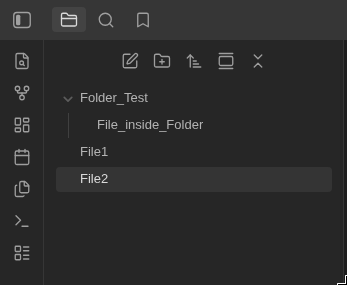
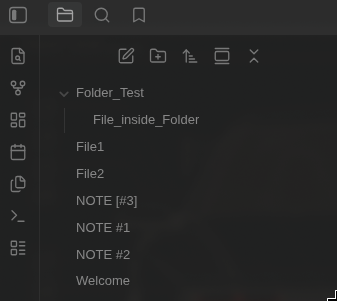
fix(sources/community/obsidian): minor fixes

diff --git a/sources/community/obsidian/README.md b/sources/community/obsidian/README.md
@@ -76,13 +76,13 @@ by `vault_files`, `search`, or `list_directory`:
 
 ```sql
 SELECT filename, encoded_filename
-FROM obsidian.search(query => 'Note #1')
+FROM obsidian.search(query => 'NOTE #1')
 LIMIT 10
 ```
 
 ```sql
 SELECT content
-FROM obsidian.read_note(path => 'Note%20%231.md')
+FROM obsidian.read_note(path => 'NOTE%20%231.md')
 ```
 
 ### Read note metadata
@@ -141,10 +141,13 @@ SELECT name, encoded_name FROM obsidian.vault_files
 
 | name | encoded_name |
 |------|--------------|
-| Folder_Test/ | Folder_Test/ |
-| Welcome.md | Welcome.md |
 | File1.md | File1.md |
 | File2.md | File2.md |
+| Folder_Test/ | Folder_Test/ |
+| NOTE #1.md | NOTE%20%231.md |
+| NOTE #2.md | NOTE%20%232.md |
+| NOTE [#3].md | NOTE%20%5B%233%5D.md |
+| Welcome.md | Welcome.md |
 
 ![image reference](./images/obsidian-structure.png)
 
@@ -166,7 +169,7 @@ SELECT name, encoded_path FROM obsidian.list_directory(path => 'Folder_Test/')
 |------|--------------|
 | File_inside_Folder.md | Folder_Test/File_inside_Folder.md |
 
-![image reference](./images/source_test1.png)
+![image reference](./images/source_test2.png)
 
 ```sql
 SELECT filename, encoded_filename, score FROM obsidian.search(query => 'File1') LIMIT 5
@@ -174,9 +177,15 @@ SELECT filename, encoded_filename, score FROM obsidian.search(query => 'File1') 
 
 | filename | encoded_filename | score |
 |----------|------------------|-------|
-| File1.md | File1.md | -0.315 |
+| NOTE #1.md | NOTE%20%231.md | -1.0109 |
 
 ![image reference](./images/source_test3.png)
+
+```sql
+SELECT content FROM obsidian.read_note(path => 'NOTE%20%231.md')
+```
+
+![image reference](./images/source_test5.png)
 
 Some more Live Test:
 
